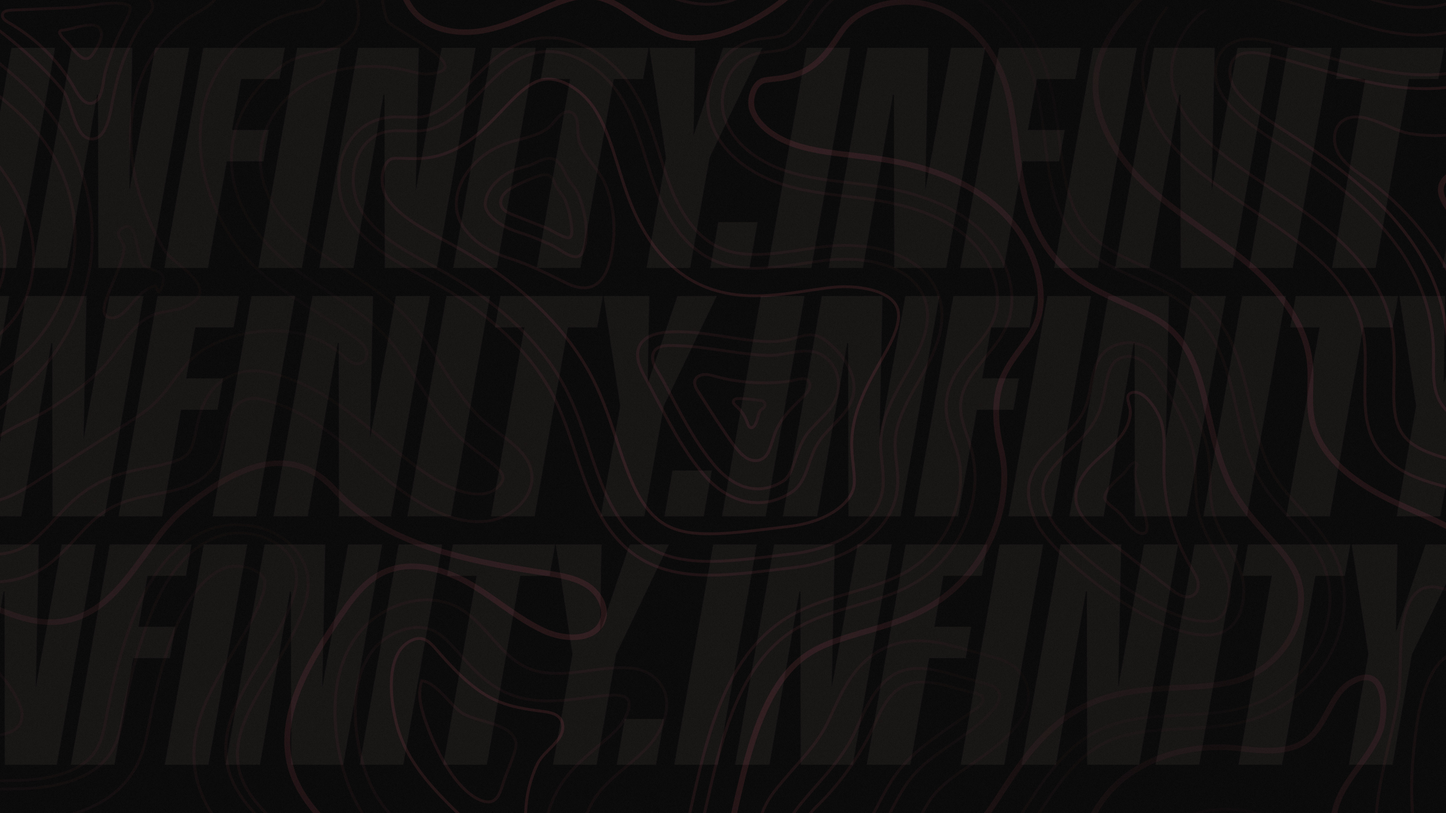
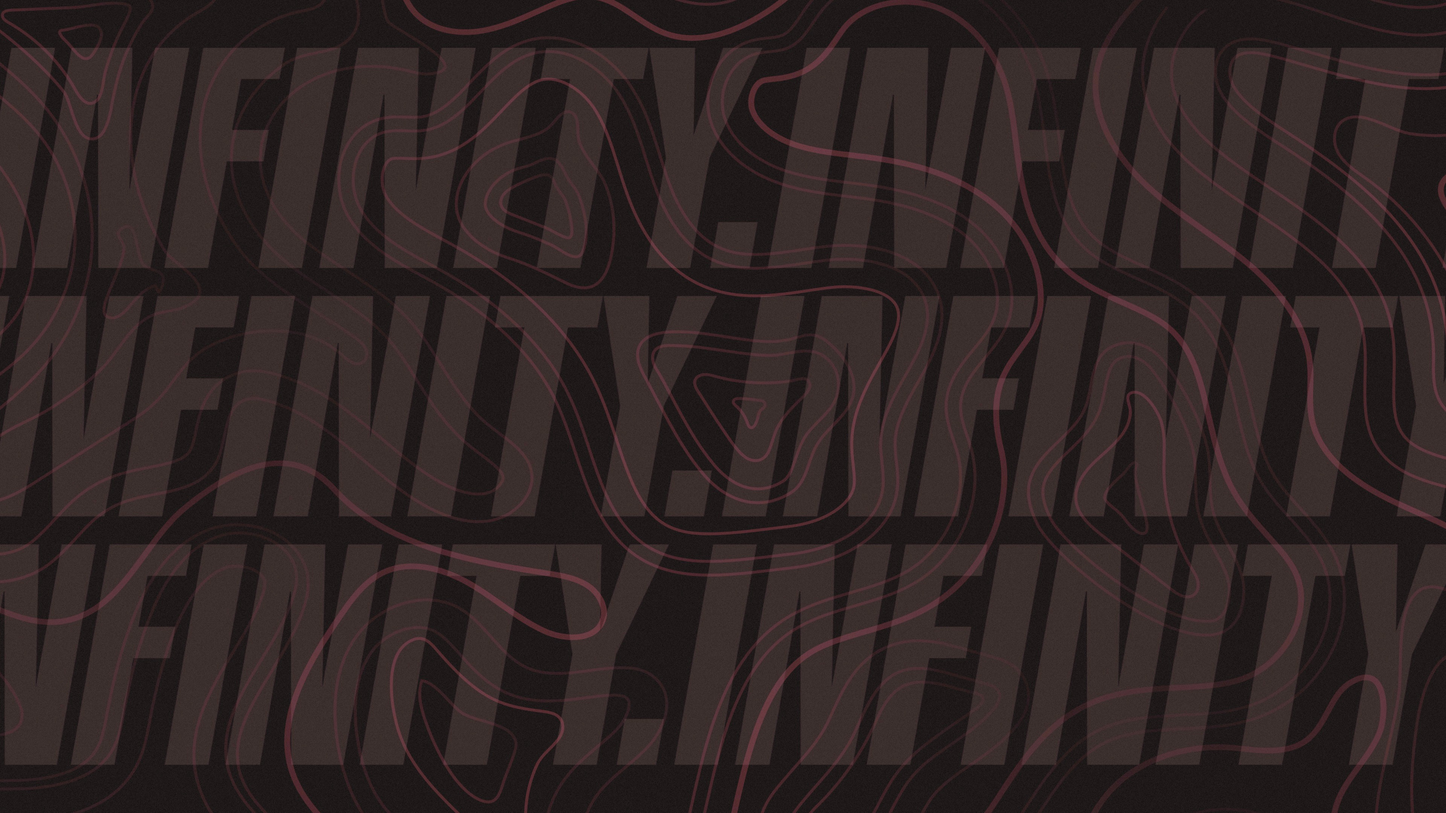
Add files via upload

diff --git a/assets/css/style.css b/assets/css/style.css
@@ -89,7 +89,7 @@ html{ scrollbar-color:var(--color-accent) var(--color-ink); scrollbar-width:thin
 
 body.has-bg-image{
   background-image:
-    linear-gradient(180deg, rgba(20,21,24,0.35), rgba(20,21,24,0.55)),
+    linear-gradient(180deg, rgba(20,21,24,0.22), rgba(20,21,24,0.4)),
     var(--user-bg-image);
   background-size:cover;
   background-position:center;
@@ -97,9 +97,9 @@ body.has-bg-image{
   color:var(--color-text);
 }
 body.has-bg-image .page-surface{
-  background:rgba(33,34,38,0.6);
-  backdrop-filter:blur(6px);
-  -webkit-backdrop-filter:blur(6px);
+  background:rgba(28,29,33,0.42);
+  backdrop-filter:blur(3px);
+  -webkit-backdrop-filter:blur(3px);
   border-radius:24px;
   padding:8px 0 40px;
 }
